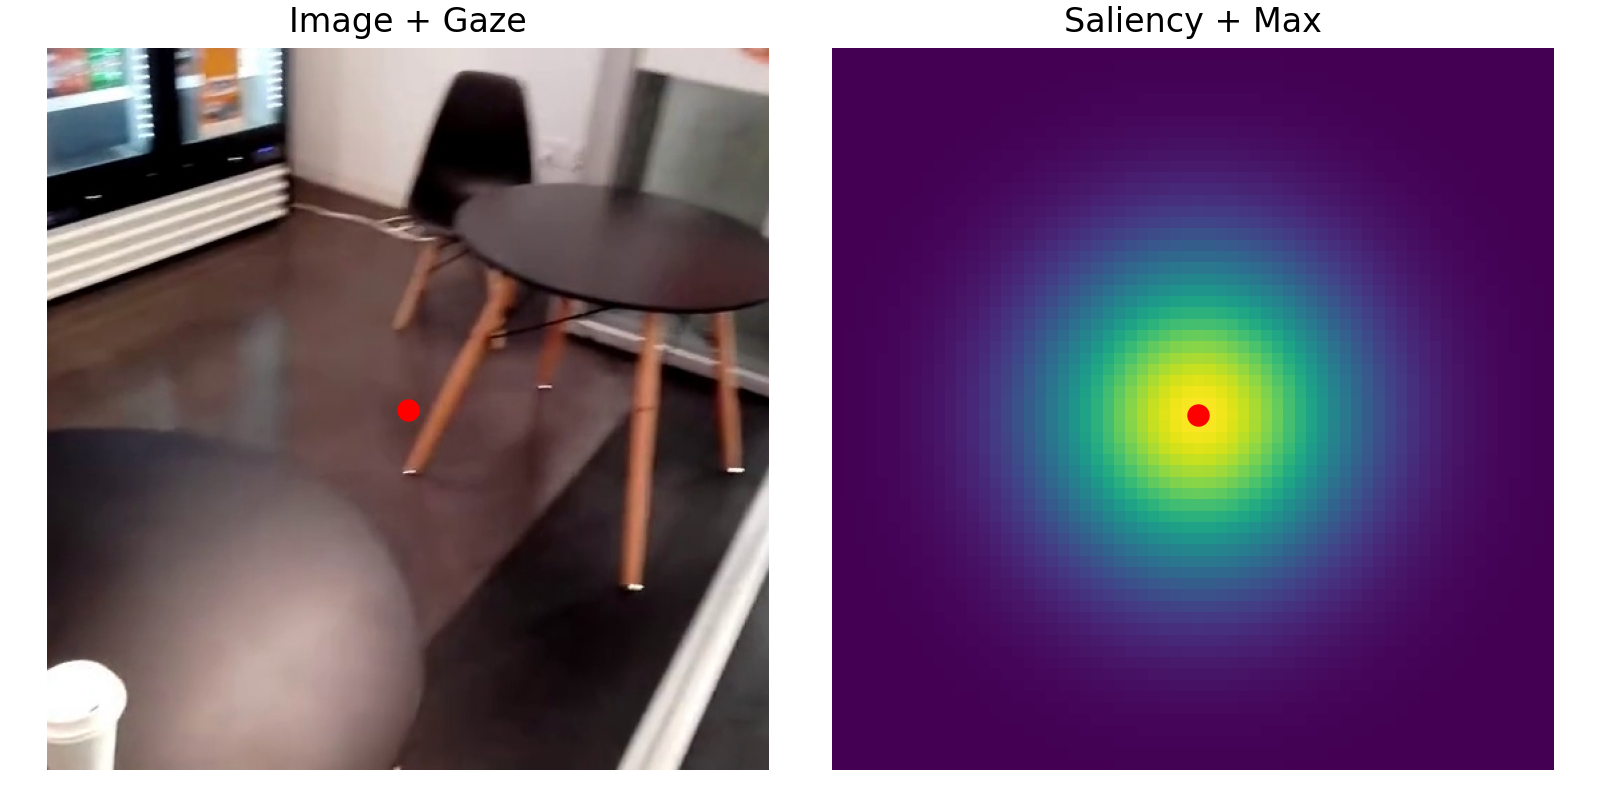
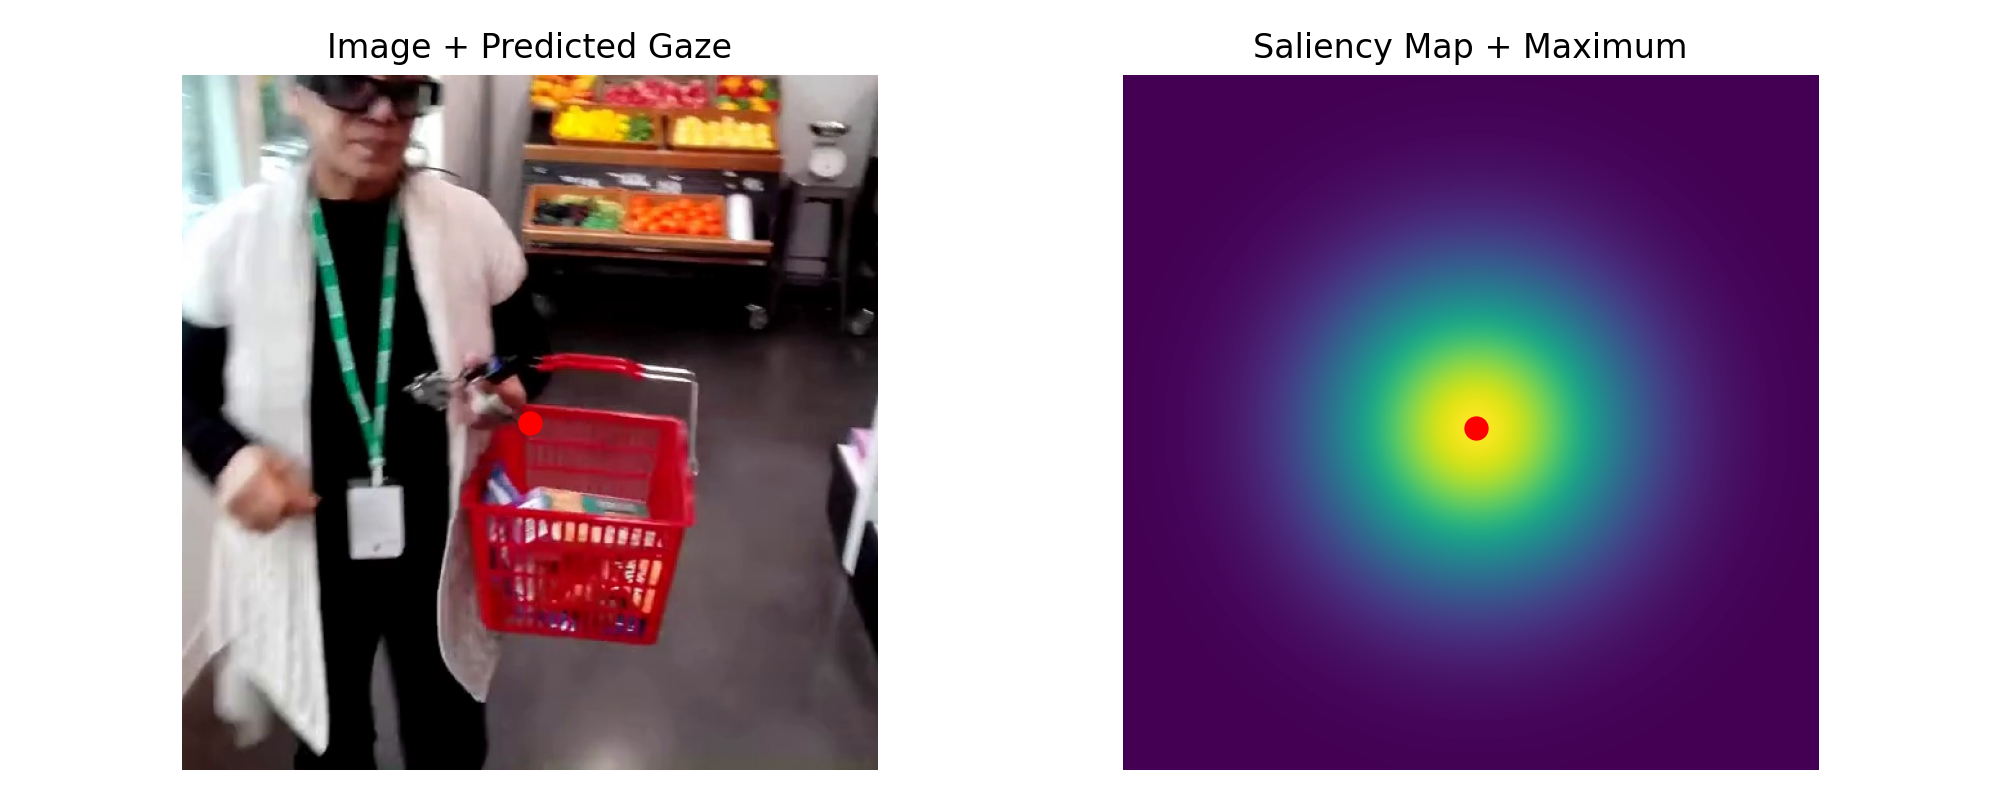
configs for final runs

diff --git a/foveation/viz.py b/foveation/viz.py
@@ -41,14 +41,15 @@ def main():
     saliency = saliency.astype(np.float32)
      
     # updated after gpu-switch:
-    viz_fov(frame, annot, saliency, "cm") # methods: crop, blur, cm
+    # viz_fov(frame, annot, saliency, "cm") # methods: crop, blur, cm
+    viz_eval_saliency(frame)
     
     # needs changing after gpu-switch: (maybe pull gaze & saliency tensors to main?)
     # viz_relative_sigmas(frame, annot, saliency)
     # viz_blur_heatmaps(frame, annot, saliency)
     # viz_cm_overview(frame, annot, saliency)
     # viz_saliency(frame, annot, saliency)
-    # viz_eval_saliency(frame)
+    
 
 
 def viz_fov(frame, annot, saliency, method):
@@ -343,28 +344,57 @@ def viz_saliency(frame, annot, saliency):
     
     
 def viz_eval_saliency(frame):
+    """
+    Visualize GazePredictor saliency output for a single frame.
 
-    # has to be changed completely
-    foveation_transform = GazePredictor()
-    
-    annot = foveation_transform._build_center_annotation(frame)
-    saliency = foveation_transform._build_center_saliency()
-    
+    Args:
+        frame (PIL.Image or np.ndarray): RGB image
+        save_name (str): output filename
+    """
+
+    # Prepare image
+    if isinstance(frame, Image.Image):
+        img_np = np.array(frame)
+    else:
+        img_np = frame
+
+    H, W = img_np.shape[:2]
+
+    # Convert to tensor (B,C,H,W)
+    img_tensor = (
+        torch.from_numpy(img_np)
+        .permute(2, 0, 1)
+        .unsqueeze(0)
+        .to(torch.uint8)
+    )
+
+    # Run GazePredictor
+    gaze_predictor = GazePredictor()
+    gaze, saliency = gaze_predictor(img_tensor)
+
+    # Remove batch dimension
+    gaze = gaze[0]
+    saliency = saliency[0, 0].cpu().numpy()
+
+    gaze_x, gaze_y = gaze.tolist()
+
+    # Find saliency maximum
     flat_max = saliency.argmax()
-    max_x, max_y = flat_max % 64, flat_max // 64
+    max_y, max_x = np.unravel_index(flat_max, saliency.shape)
 
-    fig, ax = plt.subplots(1, 2, figsize=(8, 4))
+    # Plot
+    fig, ax = plt.subplots(1, 2, figsize=(10, 4))
 
-    # original
-    ax[0].imshow(np.array(frame))
-    ax[0].scatter(annot.gaze_loc_x, annot.gaze_loc_y, c="red", s=50)
-    ax[0].set_title("Image + Gaze")
+    # Image + gaze
+    ax[0].imshow(img_np)
+    ax[0].scatter(gaze_x, gaze_y, c="red", s=60)
+    ax[0].set_title("Image + Predicted Gaze")
     ax[0].axis("off")
 
-    # saliency
+    # Saliency
     ax[1].imshow(saliency, cmap="viridis")
-    ax[1].scatter(max_x, max_y, c="red", s=50)
-    ax[1].set_title("Saliency + Max")
+    ax[1].scatter(max_x, max_y, c="red", s=60)
+    ax[1].set_title("Saliency Map + Maximum")
     ax[1].axis("off")
 
     plt.tight_layout()
